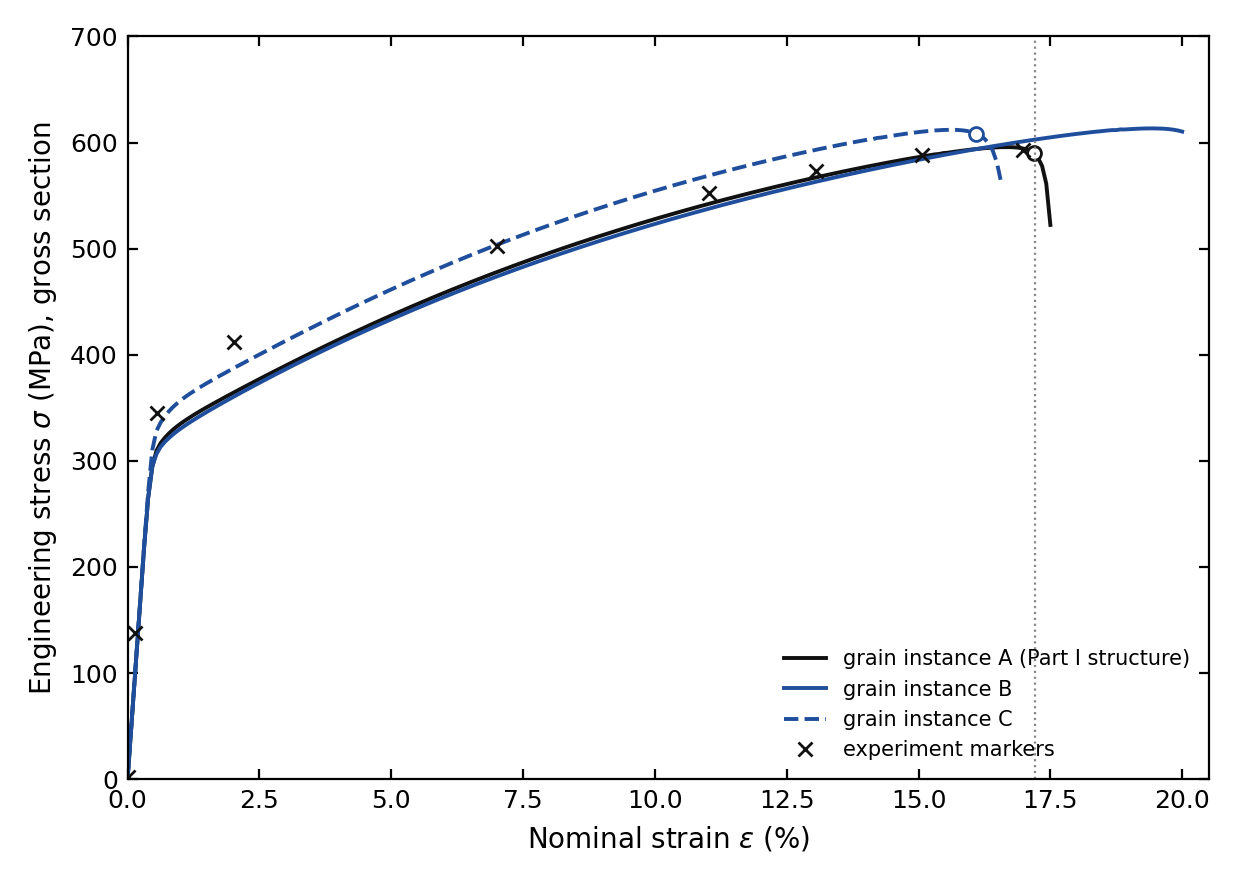
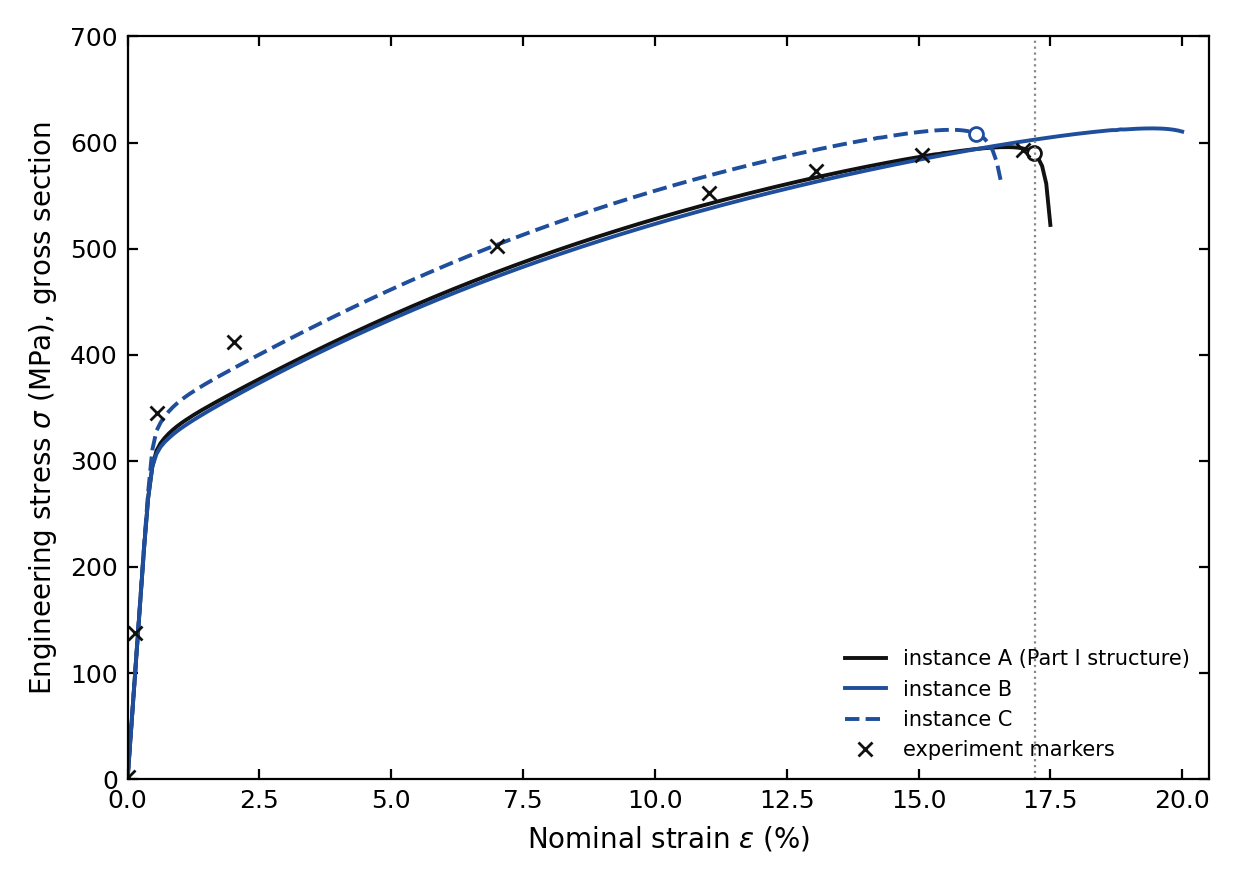
FINDINGS: the revision-round configuration and traps; grain-instance labels shortened

Changed region(s): [[0.6435, 0.7364, 0.8887, 0.8591], [0.8887, 0.7364, 0.95, 0.767]]

diff --git a/.claude/FINDINGS.md b/.claude/FINDINGS.md
@@ -224,3 +224,18 @@ NOT derivable from the code: measured facts, decisions, and traps.
   The coupled routes' Newton counts to compare are `first_mech_iterations`
   (what a predictor replaces) and `mech_iterations_total`; the plain
   `mech_iterations` column is the last alternation only.
+
+- 2026-10-15 (author's revision round, memory `study-revision-2026-10-14`): the J2+PFD
+  configuration is W_c = 200 MPa, Gc = 385.5 MPa um, l0 = 5 um (W_c scan, docs/10 §4.10);
+  every J2 result at W_c 0 or 20 is superseded (kept as the calibration record). CP+PFD
+  unchanged (Gc 1106, l0 5, W_c 0). Sensitivities carry four values per parameter; the
+  mesh studies carry h20/h40/h80; the shape study (docs/10 §9) ran all three series on
+  CP+PFD. Figure rules: colour per parameter and line style per value in categorical
+  studies, colour bars on field maps, crack maps = equivalent plastic strain with the
+  d >= 0.8 elements solid, a GIF of initiation/propagation (`pfd_fields.py gif = true`).
+- The J2 VTK series carry `equivalent_plastic_strain` only from PINNACLE 863b787 (ADR 0031
+  item 16); older J2 series (W_c 0/20 calibrations) do not. Local PINNACLE runs need
+  netCDF4 in the python3.11 user site (`python3.11 -m pip install --user netCDF4`,
+  done 2026-10-15); the Exodus reader refuses to run without it.
+- Study-deck case names are lowercased by the translator (`A_x2.5_y5` -> `a_x2.5_y5`):
+  result directories and `[Labels]` keys follow the lowercase form.
